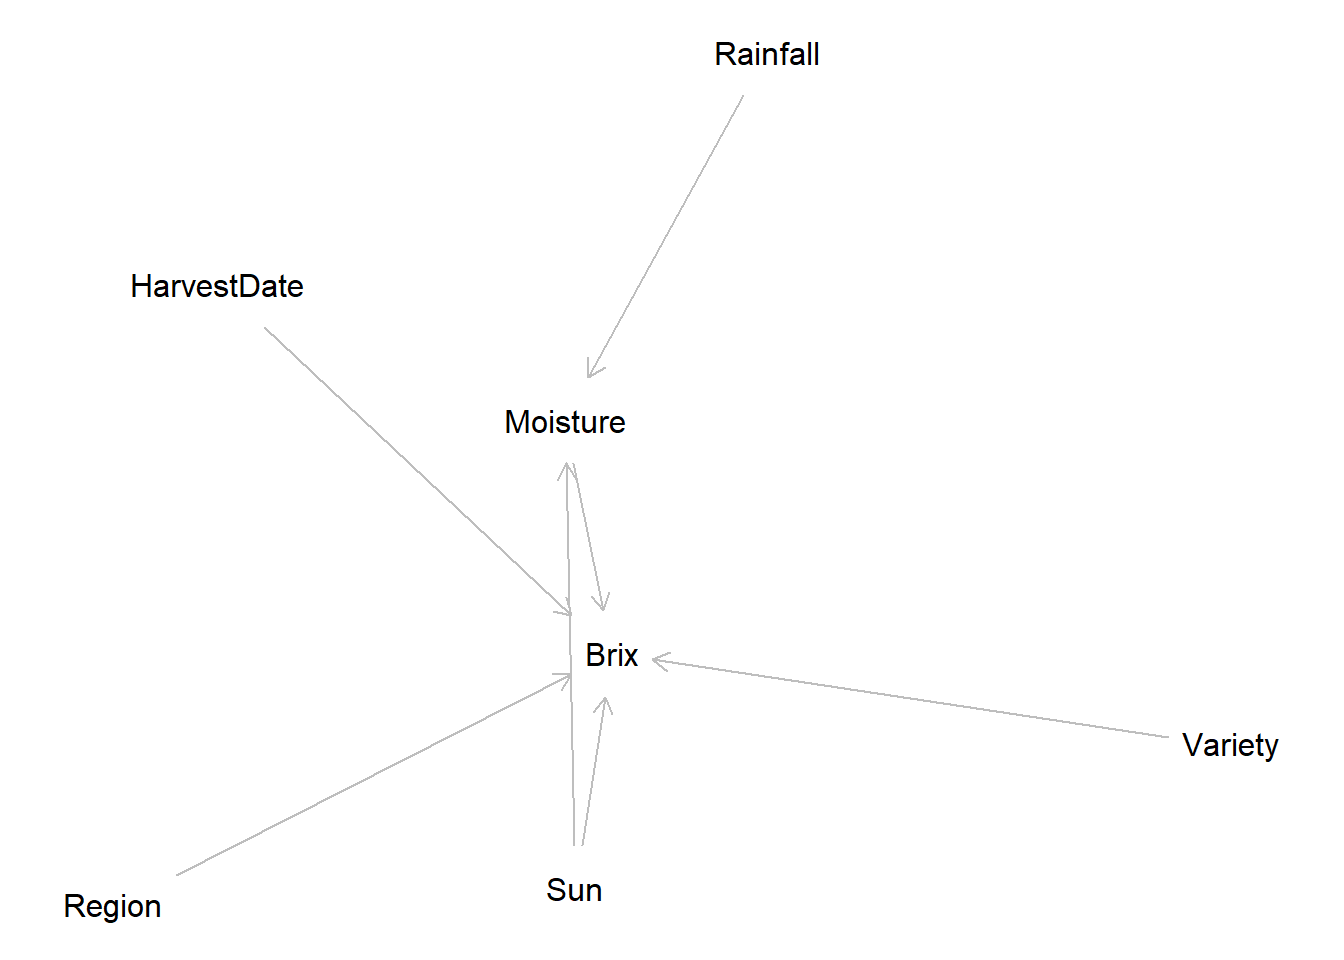
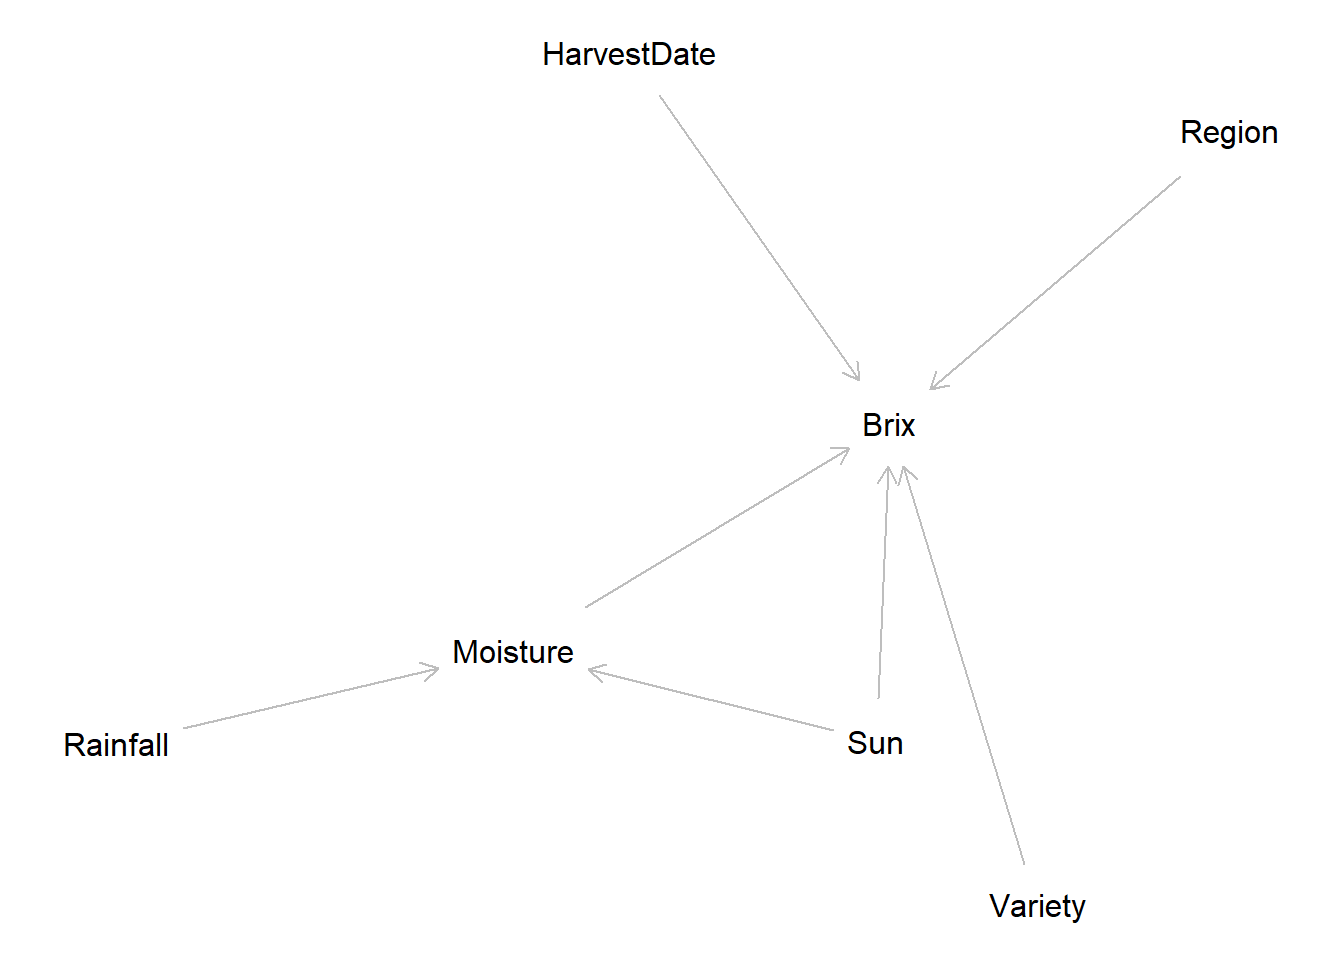
add html

diff --git a/docs/reports.html b/docs/reports.html
@@ -175,7 +175,7 @@ ul.task-list li input[type="checkbox"] {
 
 <section id="tddf-first-annual-report" class="level2">
 <h2 class="anchored" data-anchor-id="tddf-first-annual-report">TDDF First Annual Report</h2>
-<p>[View PDF] (https://github.com/Awoo56709/Awoo56709.github.io/blob/main/assets/TDDF_Summary_Report.pdf)</p>
+<p>You can view the PDF <a href="assets/TDDF_Summary_Report.pdf" target="_blank">here</a>.</p>
 
 
 </section>